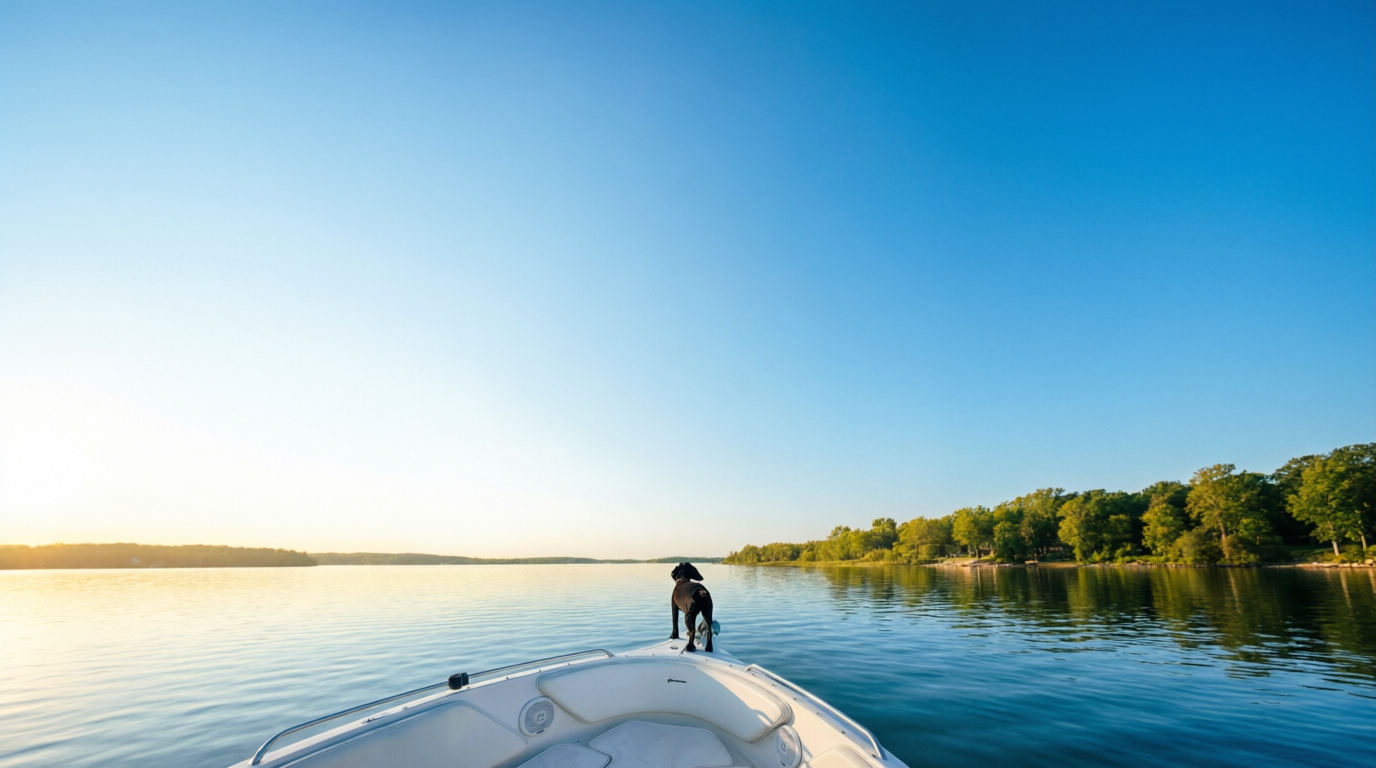
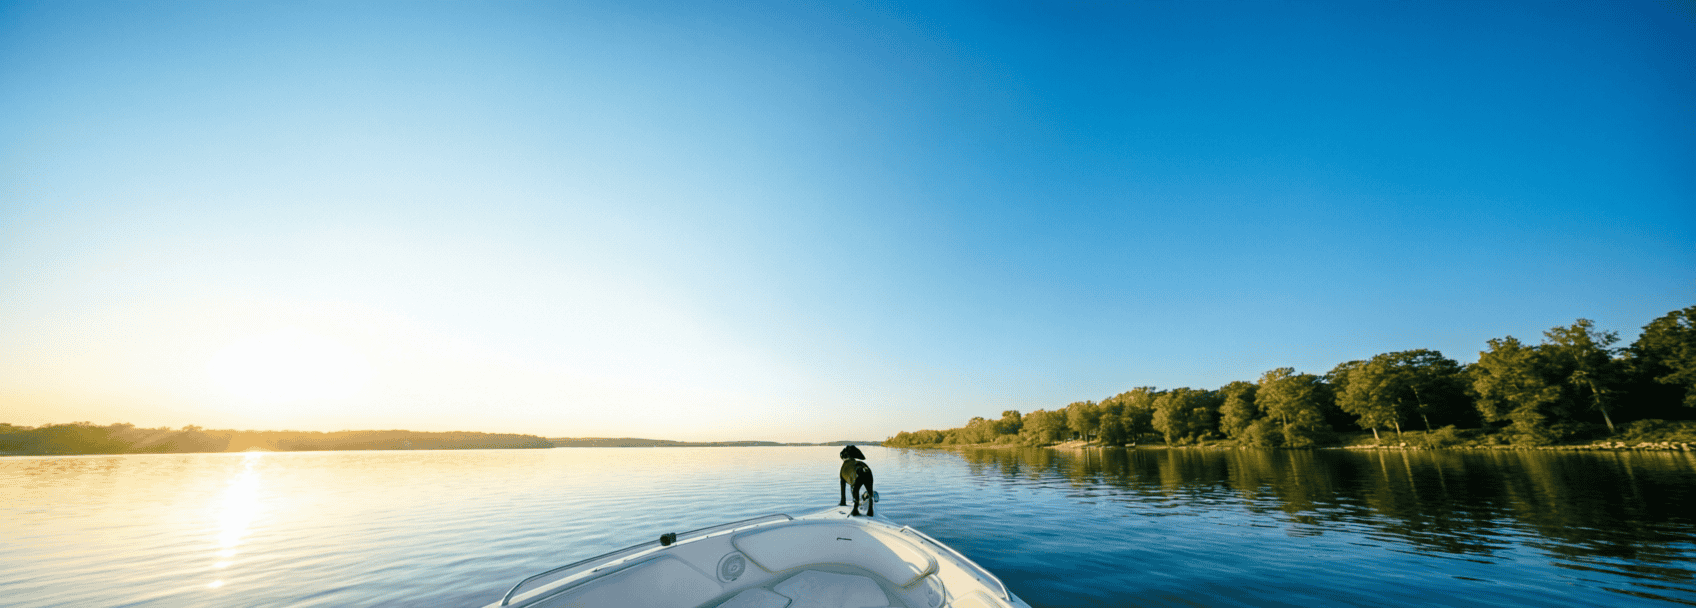
Update landing background image and refactor LandingContent component
- Replaced the landing background image asset with a new version.
- Refactored the LandingContent component to enhance the layout and animations, including changes to the hero content and SVG elements.

Changed region(s): [[0.0, 0.0, 1.0, 1.0], [0.5312, 0.0, 0.7188, 0.3438]]

diff --git a/src/components/LandingContent.tsx b/src/components/LandingContent.tsx
@@ -355,79 +355,60 @@ export const LandingContent: React.FC = () => {
         <div className="absolute inset-0" style={{ backgroundColor: 'var(--landing-accent)', opacity: 0 }} aria-hidden />
         <HeroFloatingCircles />
         <div className="relative z-10 flex-1 flex flex-col justify-between w-full max-w-6xl mx-auto text-center px-4 sm:px-6">
-          {/* Hero Compass — top of hero */}
-          <motion.div
-            className="relative flex justify-center pt-6 sm:pt-8"
-            initial={{ opacity: 0, scale: 0.85 }}
-            animate={{ opacity: 1, scale: 1 }}
-            transition={{ duration: 1, ease: [0.22, 1, 0.36, 1] }}
-          >
-            <div
-              className="absolute inset-0 rounded-full blur-2xl opacity-40"
-              style={{
-                background: 'radial-gradient(circle, var(--landing-primary) 0%, transparent 65%)',
-                transform: 'scale(1.8)',
-              }}
-              aria-hidden
-            />
+          {/* Hero content — title, subline, CTA */}
+          <div className="flex flex-col items-center justify-center pt-8 sm:pt-12 pb-4">
+            {/* <motion.span
+              className="inline-flex items-center gap-2 px-4 py-2 rounded-full text-xs font-semibold uppercase tracking-[0.2em] mb-6 sm:mb-8"
+              style={{ backgroundColor: 'rgba(255,255,255,0.15)', color: 'rgba(255,255,255,0.95)', backdropFilter: 'blur(8px)' }}
+              initial={{ opacity: 0, y: 16 }}
+              animate={{ opacity: 1, y: 0 }}
+              transition={{ duration: 0.6, ease: [0.22, 1, 0.36, 1] }}
+            >
+              Your journey starts here
+            </motion.span> */}
+            {/* Flat-design compass — bezel, dial, red/blue needle, subtle shadow */}
             <motion.div
-              className="relative"
-              animate={{ rotate: 360 }}
-              transition={{ duration: 60, repeat: Infinity, ease: 'linear' }}
+              className="mb-5 sm:mb-6 drop-shadow-md"
+              initial={{ opacity: 0, scale: 0.96 }}
+              animate={{ opacity: 1, scale: 1 }}
+              transition={{ duration: 0.6, delay: 0.08, ease: [0.22, 1, 0.36, 1] }}
+              aria-hidden
             >
               <svg
-                viewBox="0 0 200 200"
-                className="w-20 h-20 sm:w-28 sm:h-28 md:w-32 md:h-32 drop-shadow-2xl"
-                style={{ filter: 'drop-shadow(0 0 24px rgba(44, 157, 115, 0.35))' }}
-                aria-hidden
+                viewBox="0 0 64 64"
+                className="w-14 h-14 sm:w-16 sm:h-16 md:w-20 md:h-20"
+                fill="none"
+                style={{ filter: 'drop-shadow(0 4px 8px rgba(0,0,0,0.12))' }}
               >
                 <defs>
-                  <linearGradient id="compass-needle-n" x1="50%" y1="0%" x2="50%" y2="100%">
-                    <stop offset="0%" stopColor="white" />
-                    <stop offset="100%" stopColor="rgba(255,255,255,0.5)" />
-                  </linearGradient>
-                  <linearGradient id="compass-needle-s" x1="50%" y1="100%" x2="50%" y2="0%">
-                    <stop offset="0%" stopColor="white" />
-                    <stop offset="100%" stopColor="rgba(255,255,255,0.5)" />
-                  </linearGradient>
-                  <filter id="compass-glow">
-                    <feGaussianBlur stdDeviation="2" result="blur" />
-                    <feMerge>
-                      <feMergeNode in="blur" />
-                      <feMergeNode in="SourceGraphic" />
-                    </feMerge>
+                  <filter id="compass-shadow" x="-20%" y="-20%" width="140%" height="140%">
+                    <feDropShadow dx="0" dy="3" stdDeviation="2" floodColor="#BDC3C7" floodOpacity="0.4" />
                   </filter>
                 </defs>
-                {/* Rings — white only */}
-                <circle cx="100" cy="100" r="94" fill="none" stroke="white" strokeWidth="3" opacity="0.95" />
-                <circle cx="100" cy="100" r="88" fill="none" stroke="white" strokeWidth="1" opacity="0.5" />
-                {/* Cardinal ticks — white */}
-                {Array.from({ length: 12 }).map((_, i) => {
-                  const angle = (i * 30 - 90) * (Math.PI / 180);
-                  const outerR = 94;
-                  const innerR = i % 3 === 0 ? 68 : 80;
-                  const x1 = 100 + outerR * Math.cos(angle);
-                  const y1 = 100 + outerR * Math.sin(angle);
-                  const x2 = 100 + innerR * Math.cos(angle);
-                  const y2 = 100 + innerR * Math.sin(angle);
-                  return (
-                    <line key={i} x1={x1} y1={y1} x2={x2} y2={y2} stroke="white" strokeWidth={i % 3 === 0 ? 2.5 : 1.5} strokeLinecap="round" opacity="0.9" />
-                  );
-                })}
-                {/* N E S W labels — white, larger font */}
-                <text x="100" y="38" textAnchor="middle" fill="white" fontSize="28" fontWeight="700" fontFamily="system-ui, sans-serif">N</text>
-                <text x="162" y="104" textAnchor="middle" fill="white" fontSize="22" fontWeight="700" fontFamily="system-ui, sans-serif">E</text>
-                <text x="100" y="178" textAnchor="middle" fill="white" fontSize="22" fontWeight="700" fontFamily="system-ui, sans-serif">S</text>
-                <text x="38" y="104" textAnchor="middle" fill="white" fontSize="22" fontWeight="700" fontFamily="system-ui, sans-serif">W</text>
-                {/* Needle — white */}
-                <path d="M100 32 L94 100 L100 92 L106 100 Z" fill="url(#compass-needle-n)" filter="url(#compass-glow)" />
-                <path d="M100 168 L106 100 L100 108 L94 100 Z" fill="url(#compass-needle-s)" />
-                {/* Center cap — white */}
-                <circle cx="100" cy="100" r="12" fill="white" opacity="0.95" />
-                <circle cx="100" cy="100" r="8" fill="rgba(255,255,255,0.6)" />
+                <g filter="url(#compass-shadow)">
+                  {/* Outer ring (bezel) — dark blue */}
+                  <circle cx="32" cy="32" r="30" fill="#2C3E50" />
+                  {/* Inner dial — light grey-blue */}
+                  <circle cx="32" cy="32" r="24" fill="#E0E6F0" />
+                  {/* Needle — top half red */}
+                  <path d="M32 14 L28 32 L36 32 Z" fill="#E74C3C" />
+                  {/* Needle — bottom half light blue */}
+                  <path d="M32 50 L36 32 L28 32 Z" fill="#3498DB" />
+                  {/* Central pivot — dark blue */}
+                  <circle cx="32" cy="32" r="5" fill="#2C3E50" />
+                </g>
               </svg>
             </motion.div>
-          </motion.div>
+            <motion.h1
+              className="text-4xl sm:text-5xl md:text-6xl lg:text-7xl font-bold tracking-tight max-w-4xl mx-auto mb-5 sm:mb-6 leading-[1.1]"
+              style={{ color: 'rgba(255,255,255,0.98)', textShadow: '0 2px 20px rgba(0,0,0,0.15), 0 4px 40px rgba(0,0,0,0.1)' }}
+              initial={{ opacity: 0, y: 24 }}
+              animate={{ opacity: 1, y: 0 }}
+              transition={{ duration: 0.8, delay: 0.1, ease: [0.22, 1, 0.36, 1] }}
+            >
+              Find your path
+            </motion.h1>
+          </div>
 
           {/* Slide index — bottom of hero */}
           <motion.div
